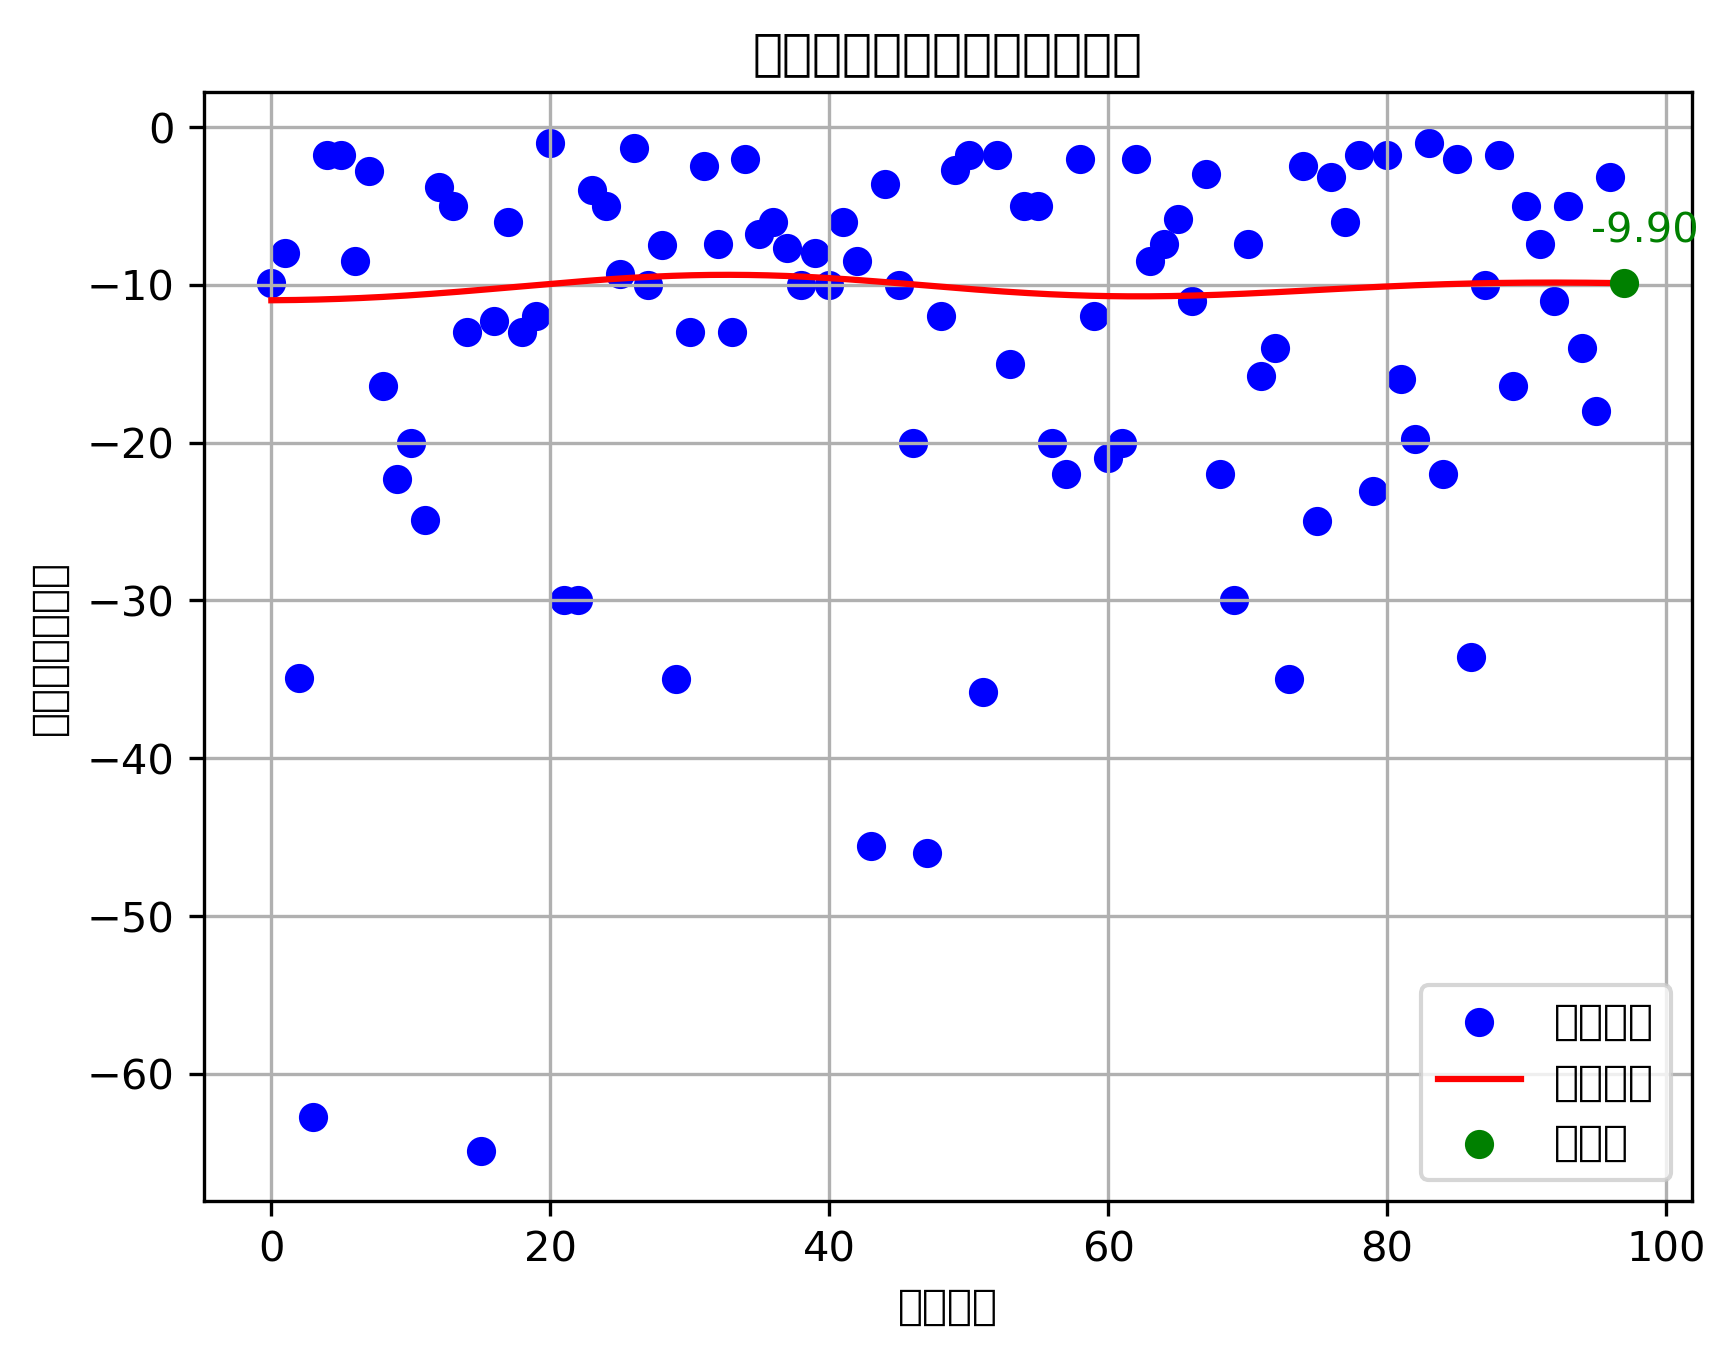
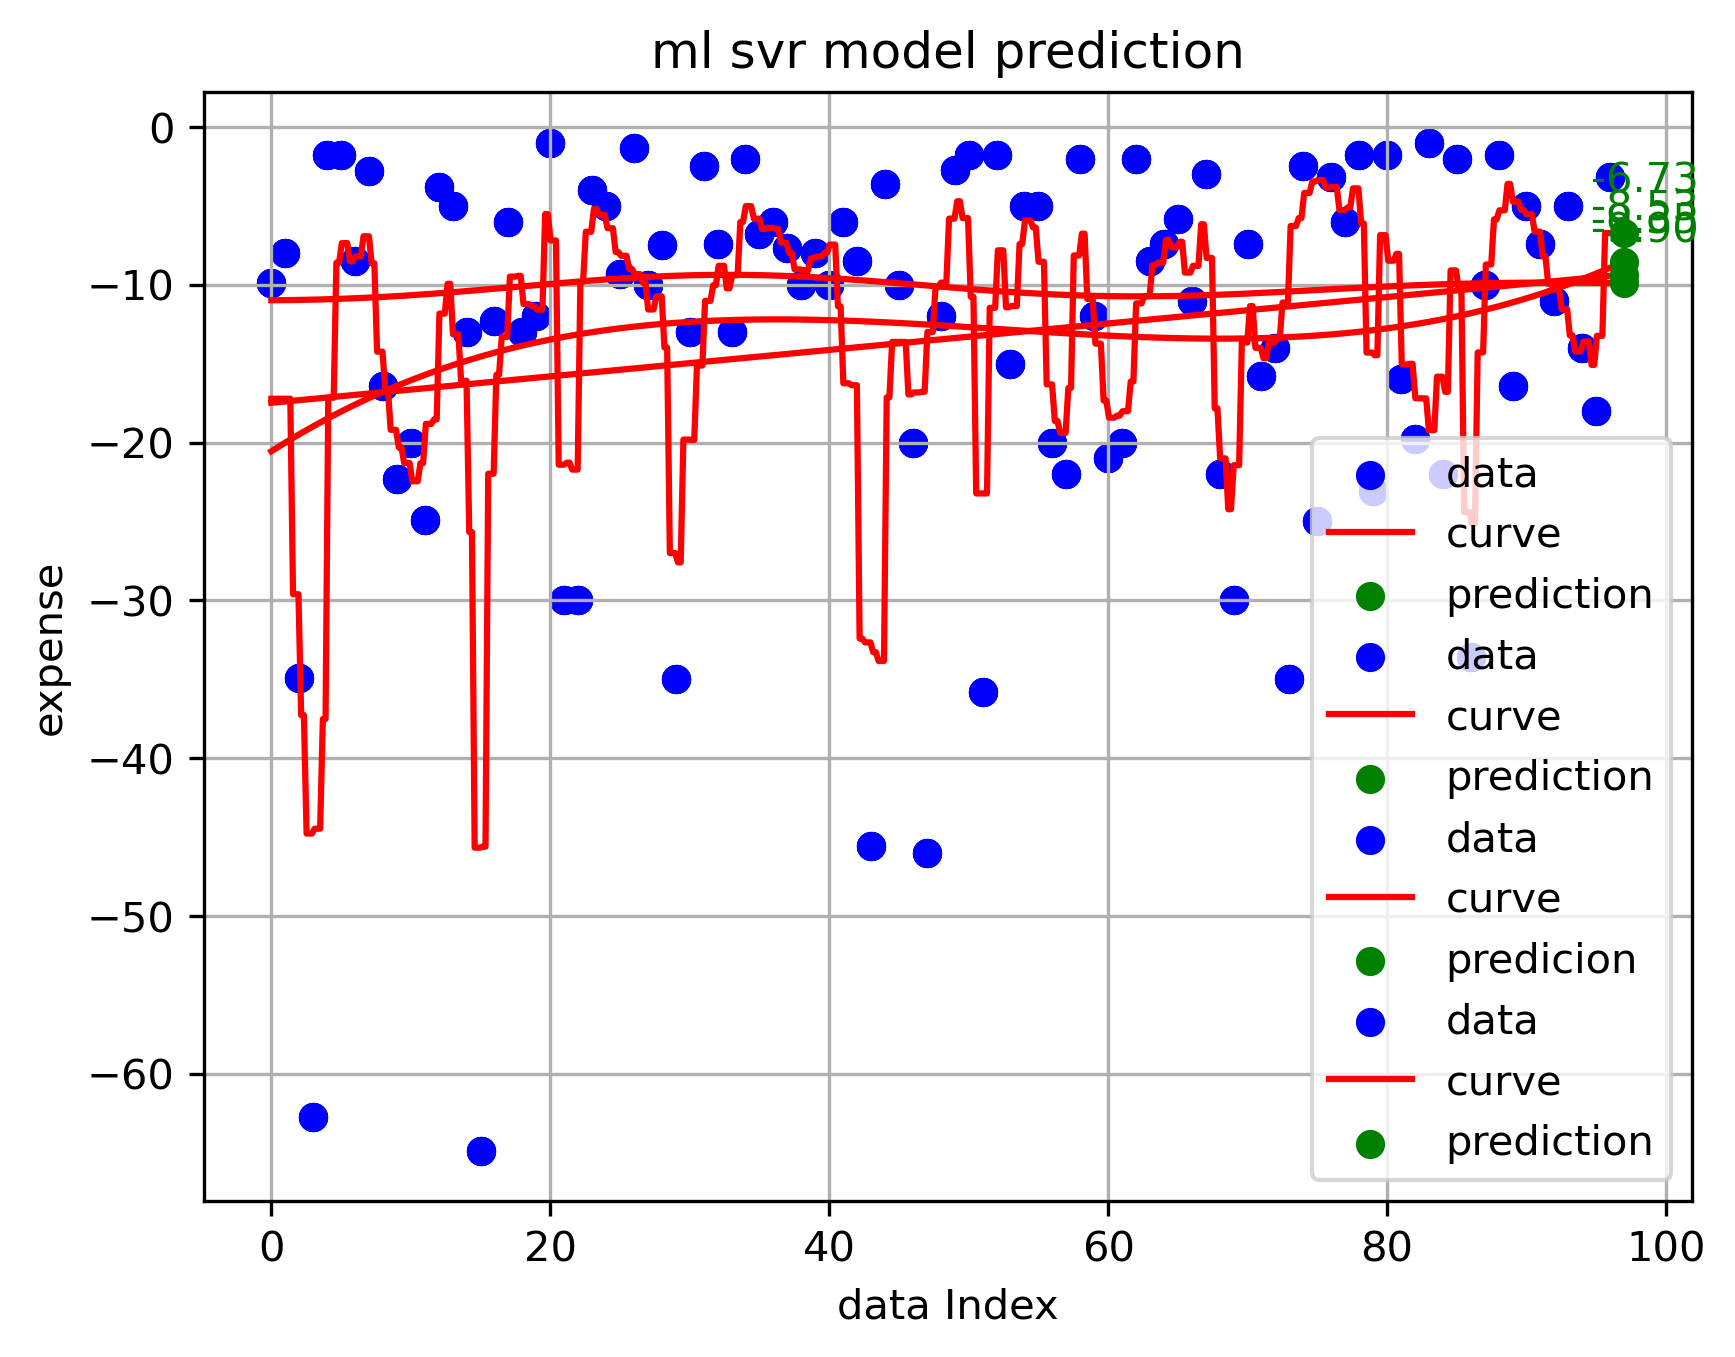
fix some unnecessary model

diff --git a/expenseAnalysis.py b/expenseAnalysis.py
@@ -44,10 +44,10 @@ try:
             # 预测下一个消费金额
             next_index = len(indices)  # 下一个数据点的索引
             next_value = polynomial(next_index)  # 使用模型预测值
-            print(f"预测的下一个消费金额: {next_value:.2f}")
+            print(f"三次多项式拟合预测的下一个消费金额: {next_value:.2f}")
 
             # 标注预测值在图表中
-            plt.scatter([next_index], [next_value], color='green', label='预测值', zorder=5)
+            plt.scatter([next_index], [next_value], color='green', label='prediction', zorder=5)
             plt.annotate(f"{next_value:.2f}",
                          (next_index, next_value),
                          textcoords="offset points",
@@ -67,7 +67,7 @@ try:
             plt.savefig("scatter_fit.png", format="png", dpi=300, bbox_inches="tight")
 
             # 显示图表
-            plt.show()
+            # plt.show()
 
 # 线性机器学习预测
     with connection.cursor() as cursor:
@@ -95,12 +95,12 @@ try:
             # 测试模型性能
             y_pred = model.predict(X_test)
             mse = mean_squared_error(y_test, y_pred)
-            print(f"模型均方误差 (MSE): {mse:.2f}")
+            print(f"ml_lr模型均方误差 (MSE): {mse:.2f}")
 
             # 使用模型预测下一个消费金额
             next_index = np.array([[len(data)]])  # 下一个索引
             next_value = model.predict(next_index)[0]  # 模型预测值
-            print(f"预测的下一个消费金额: {next_value:.2f}")
+            print(f"ml_lr预测的下一个消费金额: {next_value:.2f}")
 
             # 绘制数据与预测结果
             plt.scatter(indices, data, color="blue", label="data")
@@ -125,7 +125,7 @@ try:
             plt.savefig("ml_prediction.png", format="png", dpi=300, bbox_inches="tight")
 
             # 显示图表
-            plt.show()
+            # plt.show()
 
 # 使用随机森林做拟合预测
     with connection.cursor() as cursor:
@@ -149,11 +149,11 @@ try:
 
             y_pred = model.predict(X_test)
             mse = mean_squared_error(y_test, y_pred)
-            print(f"模型均方误差 (MSE): {mse:.2f}")
+            print(f"ml_rf模型均方误差 (MSE): {mse:.2f}")
 
             next_index = np.array([[len(data)]])
             next_value = model.predict(next_index)[0]
-            print(f"预测的下一个消费金额: {next_value:.2f}")
+            print(f"ml_rf预测的下一个消费金额: {next_value:.2f}")
 
             dense_indices = np.linspace(0, len(data), 500).reshape(-1, 1)
             dense_predictions = model.predict(dense_indices)
@@ -175,7 +175,7 @@ try:
             plt.legend()
             plt.grid(True)
             plt.savefig("ml_rf_prediction.png", format="png", dpi=300, bbox_inches="tight")
-            plt.show()
+            # plt.show()
 
 # 使用SVR向量机预测
     with connection.cursor() as cursor:
@@ -199,11 +199,11 @@ try:
 
             y_pred = model.predict(X_test)
             mse = mean_squared_error(y_test, y_pred)
-            print(f"模型均方误差 (MSE): {mse:.2f}")
+            print(f"ml_rf_SVR模型均方误差 (MSE): {mse:.2f}")
 
             next_index = np.array([[len(data)]])
             next_value = model.predict(next_index)[0]
-            print(f"预测的下一个消费金额: {next_value:.2f}")
+            print(f"ml_rf_SVR预测的下一个消费金额: {next_value:.2f}")
 
             dense_indices = np.linspace(0, len(data), 500).reshape(-1, 1)
             dense_predictions = model.predict(dense_indices)
@@ -225,8 +225,7 @@ try:
             plt.legend()
             plt.grid(True)
             plt.savefig("ml_rf_SVR_prediction.png", format="png", dpi=300, bbox_inches="tight")
-            plt.show()
-
+            # plt.show()
 
 finally:
     connection.close()
